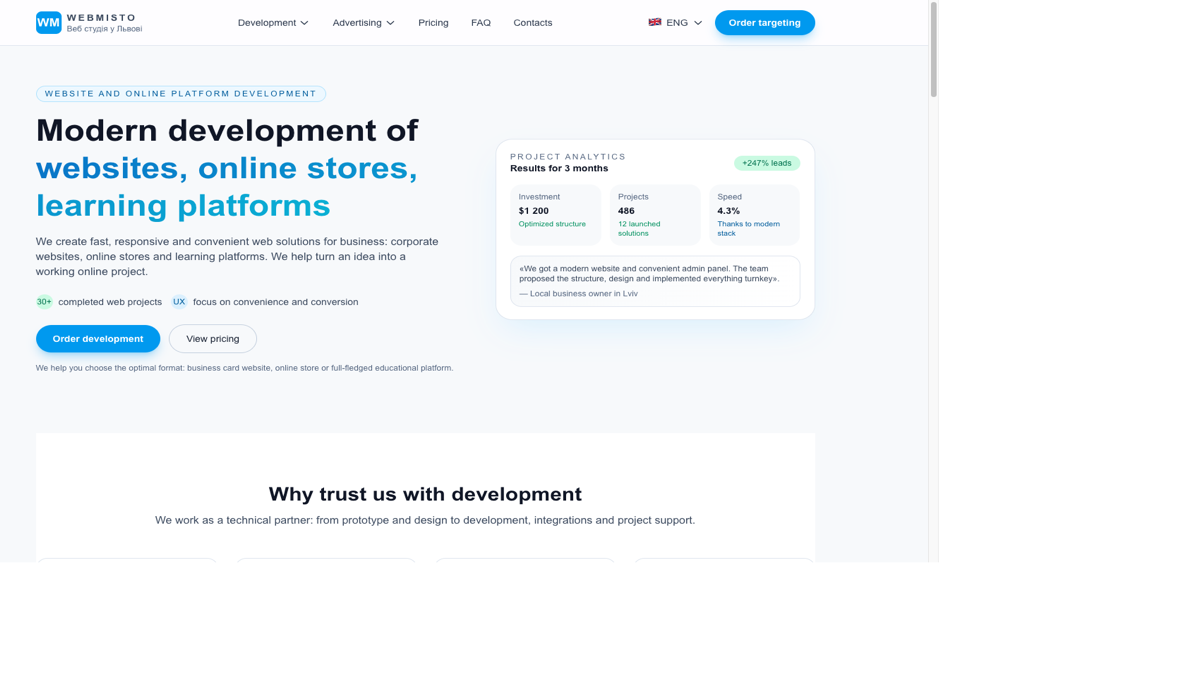
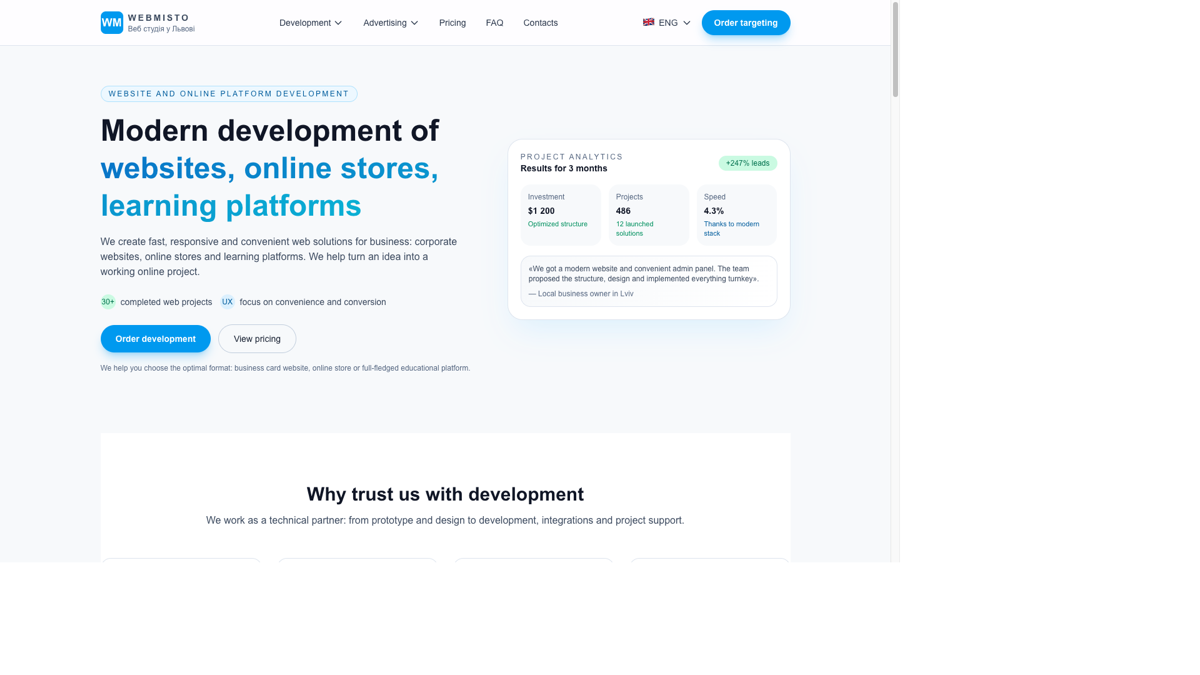
Enhance Portfolio component with horizontal scrolling functionality and navigation buttons. Update layout for improved user experience and accessibility. Replace existing project display with a dynamic scrolling gallery.

diff --git a/src/components/Portfolio.tsx b/src/components/Portfolio.tsx
@@ -1,8 +1,63 @@
+"use client";
+
+import { useCallback, useEffect, useRef, useState } from "react";
+import { ChevronLeft, ChevronRight } from "lucide-react";
 import { SectionHeading } from "@/components/SectionHeading";
-import { MotionReveal } from "@/components/MotionReveal";
 import { PORTFOLIO } from "@/lib/constants";
+import { usePrefersReducedMotion } from "@/hooks/use-reduced-motion";
+
+function pagesFor(perView: number) {
+  return Math.max(1, PORTFOLIO.length - perView + 1);
+}
 
 export function Portfolio() {
+  const scrollerRef = useRef<HTMLDivElement>(null);
+  const [page, setPage] = useState(0);
+  const [perView, setPerView] = useState(2);
+  const reduced = usePrefersReducedMotion();
+  const pageCount = pagesFor(perView);
+
+  useEffect(() => {
+    const media = window.matchMedia("(min-width: 640px)");
+    const update = () => setPerView(media.matches ? 2 : 1);
+    update();
+    media.addEventListener("change", update);
+    return () => media.removeEventListener("change", update);
+  }, []);
+
+  useEffect(() => {
+    scrollerRef.current?.scrollTo({ left: 0, behavior: "auto" });
+    setPage(0);
+  }, [perView]);
+
+  const syncPage = useCallback(() => {
+    const el = scrollerRef.current;
+    const card = el?.querySelector<HTMLElement>("[data-portfolio-card]");
+    if (!el || !card) return;
+    const gap = Number.parseFloat(getComputedStyle(el).columnGap) || 0;
+    const step = card.offsetWidth + gap;
+    if (step <= 0) return;
+    const next = Math.round(el.scrollLeft / step);
+    setPage(Math.max(0, Math.min(next, pagesFor(perView) - 1)));
+  }, [perView]);
+
+  const scrollToPage = useCallback(
+    (index: number) => {
+      const el = scrollerRef.current;
+      const card = el?.querySelector<HTMLElement>("[data-portfolio-card]");
+      if (!el || !card) return;
+      const gap = Number.parseFloat(getComputedStyle(el).columnGap) || 0;
+      const step = card.offsetWidth + gap;
+      const next = Math.max(0, Math.min(index, pagesFor(perView) - 1));
+      el.scrollTo({
+        left: next * step,
+        behavior: reduced ? "auto" : "smooth",
+      });
+      setPage(next);
+    },
+    [perView, reduced],
+  );
+
   return (
     <section id="portfolio" className="relative py-20 sm:py-24">
       <div className="pointer-events-none absolute inset-0 -z-10 bg-[radial-gradient(ellipse_at_center,_rgba(124,58,237,0.12),_transparent_60%)]" />
@@ -13,11 +68,31 @@ export function Portfolio() {
           description="Три приклади сайтів для різних задач: ресторан морепродуктів, сервіс кондиціонування і вебстудія."
         />
 
-        <div className="grid gap-5 lg:grid-cols-2">
-          {PORTFOLIO.map((project, index) => (
-            <MotionReveal key={project.id} delay={index * 0.06}>
-              <article className="group flex h-full flex-col overflow-hidden rounded-2xl border border-[var(--border)] bg-[var(--card-strong)] backdrop-blur-xl">
-                <div className="relative aspect-[16/10] overflow-hidden border-b border-[var(--border)]">
+        <div className="relative">
+          <div
+            ref={scrollerRef}
+            onScroll={syncPage}
+            className="flex snap-x snap-mandatory gap-5 overflow-x-auto scroll-smooth overscroll-x-contain pb-1 [scrollbar-width:none] [&::-webkit-scrollbar]:hidden"
+            tabIndex={0}
+            aria-label="Галерея прикладів робіт"
+            onKeyDown={(event) => {
+              if (event.key === "ArrowRight") {
+                event.preventDefault();
+                scrollToPage(page + 1);
+              }
+              if (event.key === "ArrowLeft") {
+                event.preventDefault();
+                scrollToPage(page - 1);
+              }
+            }}
+          >
+            {PORTFOLIO.map((project) => (
+              <article
+                key={project.id}
+                data-portfolio-card
+                className="flex w-full shrink-0 snap-start flex-col overflow-hidden rounded-2xl border border-[var(--border)] bg-[var(--card-strong)] backdrop-blur-xl sm:w-[calc((100%-1.25rem)/2)]"
+              >
+                <div className="relative aspect-video overflow-hidden border-b border-[var(--border)]">
                   <img
                     src={project.image}
                     alt=""
@@ -47,8 +122,46 @@ export function Portfolio() {
                   </div>
                 </div>
               </article>
-            </MotionReveal>
-          ))}
+            ))}
+          </div>
+
+          <button
+            type="button"
+            className="absolute left-3 top-[22%] z-10 inline-flex size-11 -translate-y-1/2 items-center justify-center rounded-full border border-[var(--border)] bg-[var(--card-strong)] text-[var(--fg)] shadow-[var(--shadow)] backdrop-blur-xl transition hover:bg-[var(--glass-hover)] focus-visible:outline-none focus-visible:ring-2 focus-visible:ring-cyan-400/70 disabled:pointer-events-none disabled:opacity-35"
+            aria-label="Попередні роботи"
+            disabled={page === 0}
+            onClick={() => scrollToPage(page - 1)}
+          >
+            <ChevronLeft className="size-5" />
+          </button>
+          <button
+            type="button"
+            className="absolute right-3 top-[22%] z-10 inline-flex size-11 -translate-y-1/2 items-center justify-center rounded-full border border-[var(--border)] bg-[var(--card-strong)] text-[var(--fg)] shadow-[var(--shadow)] backdrop-blur-xl transition hover:bg-[var(--glass-hover)] focus-visible:outline-none focus-visible:ring-2 focus-visible:ring-cyan-400/70 disabled:pointer-events-none disabled:opacity-35"
+            aria-label="Наступні роботи"
+            disabled={page >= pageCount - 1}
+            onClick={() => scrollToPage(page + 1)}
+          >
+            <ChevronRight className="size-5" />
+          </button>
+        </div>
+
+        <div className="mt-6 flex items-center justify-center gap-2" role="tablist" aria-label="Сторінки галереї">
+          {Array.from({ length: pageCount }, (_, index) => {
+            const active = index === page;
+            return (
+              <button
+                key={index}
+                type="button"
+                role="tab"
+                aria-label={`Показати роботи, сторінка ${index + 1}`}
+                aria-selected={active}
+                className={`h-2 rounded-full transition-[width,background-color] ${
+                  active ? "w-6 bg-[var(--primary)]" : "w-2 bg-[var(--faint)] hover:bg-[var(--subtle)]"
+                }`}
+                onClick={() => scrollToPage(index)}
+              />
+            );
+          })}
         </div>
       </div>
     </section>
